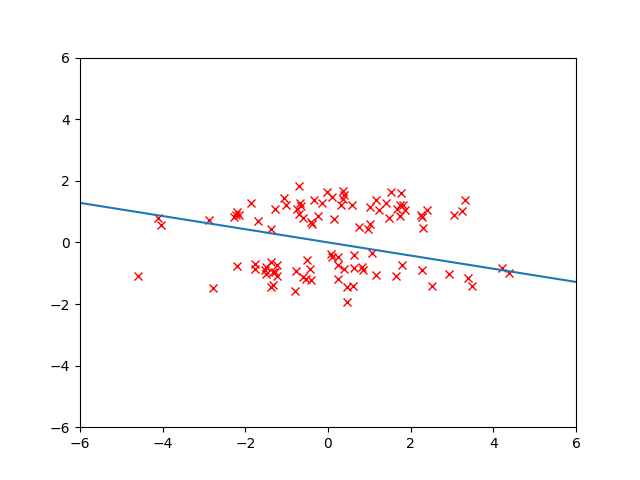
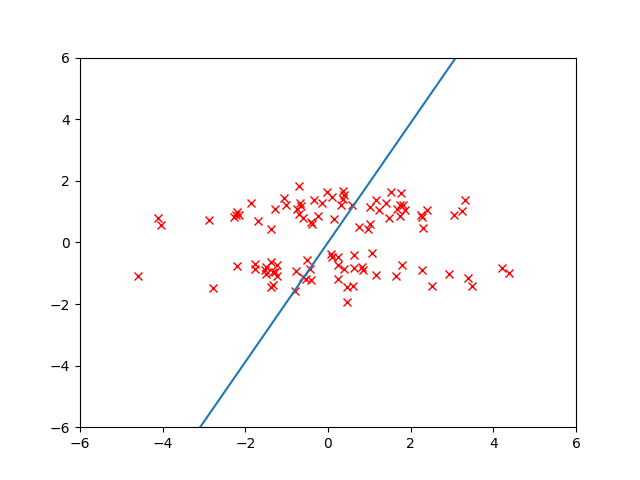
取るべき軸を間違えていたので修正した。

diff --git a/Lecture_10/p44.py b/Lecture_10/p44.py
@@ -55,7 +55,7 @@ n_components = 1
 # x = data_generation1(n)
 x = data_generation2(n)
 
-v = cal_lpp(x, 1.0)[:1, :]
+v = cal_lpp(x, 1.0)[1:, :]
 
 plt.xlim(-6., 6.)
 plt.ylim(-6., 6.)
